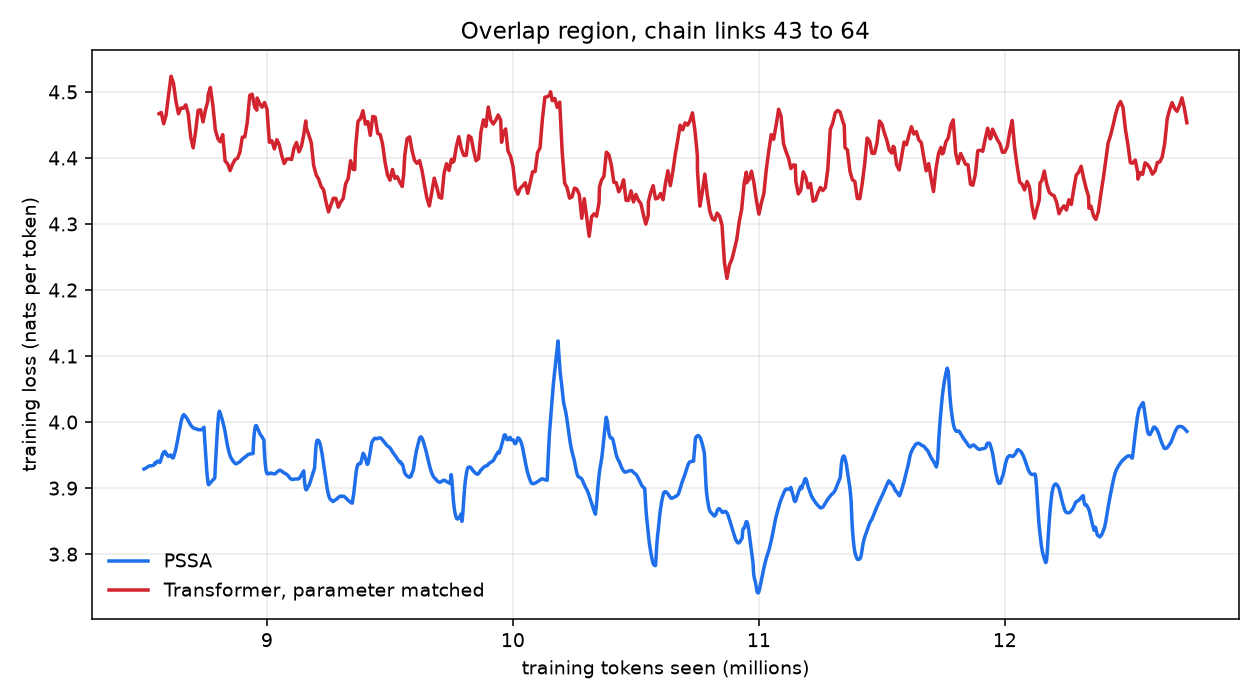
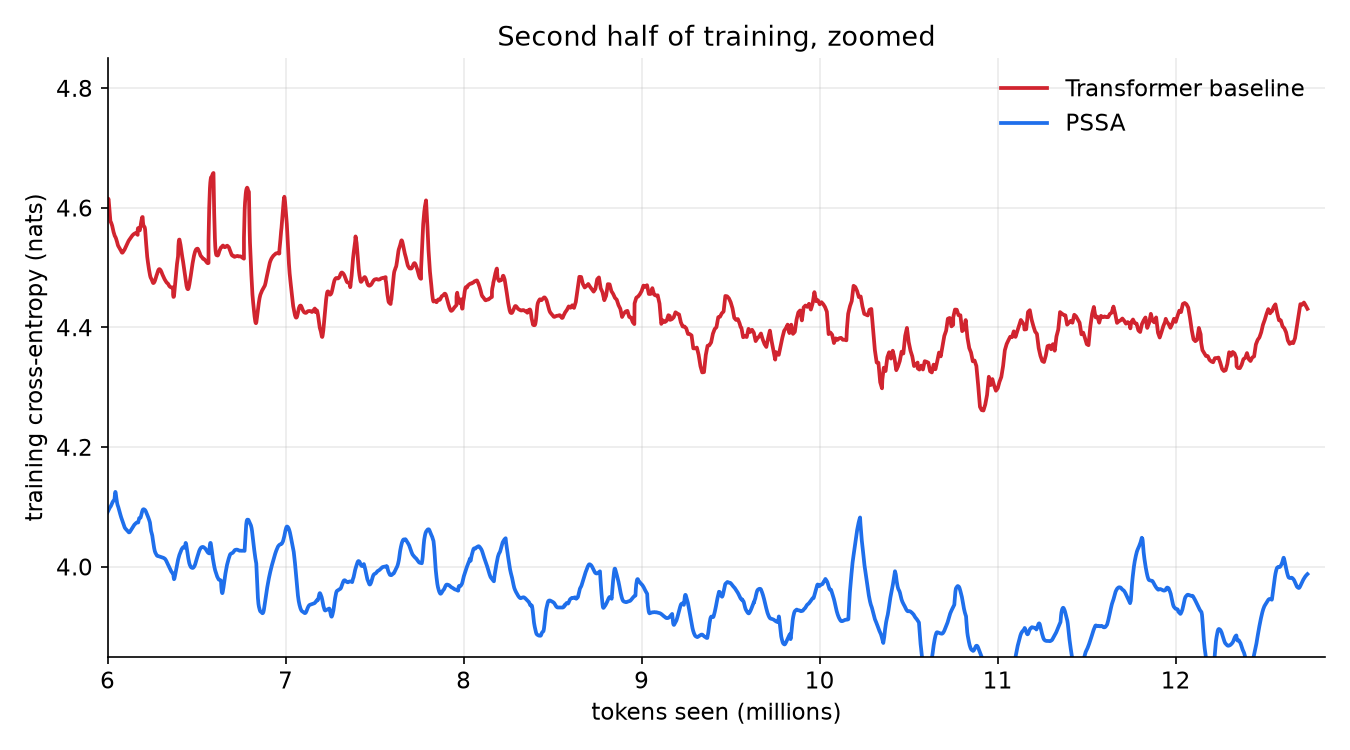
Rebuild loss curves with the full transformer run from the recovered logs

Changed region(s): [[0.0, 0.06, 0.9905, 0.99], [0.3405, 0.03, 0.7119, 0.09], [0.8976, 0.57, 0.9595, 0.66]]

diff --git a/README.md b/README.md
@@ -24,7 +24,7 @@ around 2M tokens in.
 
 The two curves never cross, and they never touch:
 
-![Overlap region, links 43 to 64](docs/img/loss-curve-zoom.png)
+![Overlap region, second half of training](docs/img/loss-curve-zoom.png)
 
 ### It holds on text neither model has seen
 
@@ -177,14 +177,14 @@ End-of-link training cross-entropy:
 
 | Link | Tokens seen | PSSA | Transformer |
 | --- | --- | --- | --- |
-| ck01 | 200,000 | 5.733 | not recorded |
-| ck05 | 1,000,000 | 4.617 | not recorded |
-| ck10 | 2,000,000 | 4.447 | not recorded |
-| ck15 | 3,000,000 | 4.292 | not recorded |
-| ck20 | 4,000,000 | 4.185 | not recorded |
-| ck25 | 5,000,000 | 4.221 | not recorded |
-| ck30 | 6,000,000 | 4.070 | not recorded |
-| ck35 | 7,000,000 | 4.039 | not recorded |
+| ck01 | 200,000 | 5.733 | 6.461 |
+| ck05 | 1,000,000 | 4.617 | 5.467 |
+| ck10 | 2,000,000 | 4.447 | 5.082 |
+| ck15 | 3,000,000 | 4.292 | 4.858 |
+| ck20 | 4,000,000 | 4.185 | 4.704 |
+| ck25 | 5,000,000 | 4.221 | 4.704 |
+| ck30 | 6,000,000 | 4.070 | 4.561 |
+| ck35 | 7,000,000 | 4.039 | 4.523 |
 | ck37 | 7,400,000 | 3.960 | 4.465 |
 | ck44 | 8,800,000 | 4.004 | 4.480 |
 | ck48 | 9,600,000 | 3.937 | 4.415 |
@@ -194,9 +194,9 @@ End-of-link training cross-entropy:
 | ck64 | 12,800,000 | 3.982 | 4.428 |
 
 The baseline's first session was cut at link 43 by the notebook session limit
-and its loss CSV did not survive, so links 1 to 36 and 38 to 43 have no recorded
-value; link 37 comes from the live run log. The chain resumed from `ck43` in a
-second session and finished all 64 links.
+and its loss CSV did not survive, so links 1 to 43 are read back from that
+session's own run log instead. The chain resumed from `ck43` in a second session
+and finished all 64 links, and both curves above now cover the full run.
 
 ### Throughput is not hardware-matched
 
